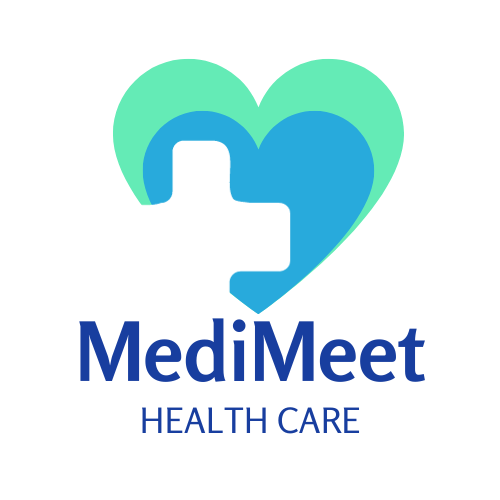
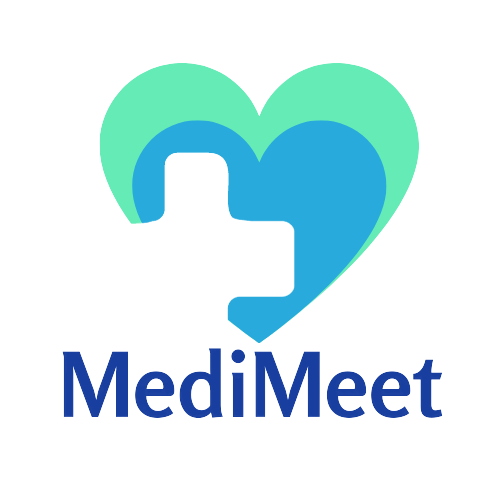
login

Changed region(s): [[0.12, 0.15, 0.9, 0.87], [0.3, 0.12, 0.54, 0.24], [0.54, 0.12, 0.72, 0.18]]

diff --git a/src/app/views/components/login/login.component.html b/src/app/views/components/login/login.component.html
@@ -1,40 +1,28 @@
-<section class="auth-page">
-  <div class="row">
-    <div class="col-md-6">
-      <div class="logo-container">
-        <img src="assets/img/logo.png" alt="Logo" class="logo-img">
-         <h1 class="title">MediMeet</h1>
-    </div>
-    </div>
-  </div>
-  <div class="row m-0 vh-100 justify-content-center align-items-center">
-    <div class="col-md-8 col-lg-6 mx-auto">
-      <div class="text-center">
-        <h1 class="fw-bold">Login</h1>
-        <p>Welcome to our medical appointment app, your trusted companion in managing your health!</p>
-      </div>
-      
-      <div class="card p-3 rounded-0 shadow">
-        <div class="card-body">
-          <form [formGroup]="loginForm" (ngSubmit)="onLogin()">
-            <div class="form-floating mb-3">
-              <input type="email" class="form-control rounded-0" id="username" formControlName="username" placeholder="name@example.com">
-              <label for="floatingInput">Username</label>
-            </div>
-            
-            <div class="form-floating">
-              <input type="password" class="form-control rounded-0" id="password" formControlName="password" placeholder="Password">
-              <label for="floatingPassword">Password</label>
-            </div>
-            
-            <button type="submit" class="btn btn-lg btn-dark w-100 mt-3 rounded-0">Login</button>
-          </form>              
+<section>
+  <div class="wrapper background">
+      <div class="container mb-5 mx-4">
+        <div class="container-img d-flex text-center">
+          <img src="assets/img/1.png">
         </div>
-      </div>        
-    </div>
+        <h1 class="text-center py-5 font-weight-bold">Login</h1>
+        <form [formGroup]="loginForm" (ngSubmit)="onLogin()">
+          <div class="form-group mb-3">
+            <label for="exampleInputEmail1" class="form-label">Username</label>
+            <input type="email" class="form-control" id="username" formControlName="username" placeholder="name@example.com">
+          </div>
+          
+          <div class="form-group mb-3">
+            <label for="exampleInputPassword1" class="form-label" >Password</label>
+            <input type="password" class="form-control text-white" id="exampleInputPassword1" formControlName="password" placeholder="***********" autocomplete="nope" placeholder="Password">
+          </div>
+  
+          <div class="d-grid m-5">
+            <button type="submit" class="btn btn-primary btn-lg fw-normal mb-5 mx-5">Login</button>
+          </div>
+        </form>
+      </div>
   </div>
 </section>
-
 
 
 

diff --git a/src/app/views/components/login/login.component.css b/src/app/views/components/login/login.component.css
@@ -1,11 +1,89 @@
-.logo-container {
-    display: flex;
-    align-items: center;
-    margin-top: 10px;
-    margin-left: 30px;
+
+
+  .background {
+    background-image: url(/../../../assets/img/fondo.png);
+    background-color: rgba(0, 0, 0, 0.5);
+    background-blend-mode: multiply;
+    background-size: cover;
+    background-position: center center;
+    height: 100vh;
   }
-  
-  .logo-img{
-    width: 50px;
-    height: 50px;
-  }
+
+.container{
+    background-color: rgba(0, 0, 0, 0.7);
+    border-radius: 5px;
+    box-shadow: -1px 0px 30px -7px rgba(0,0,0,0.75);
+}
+
+h1{
+  font-size: 35px;
+  font-weight: bold;
+  background: linear-gradient(
+    200deg, #0a66a4, #0c96c0
+  );
+  background-clip: text;
+  -webkit-text-fill-color: transparent;
+}
+
+.container-img  {
+  width: 500px;
+  height: 100px;
+}
+
+.container-img  img {
+  margin: 50px 0px 0px 20px;
+  width: 100%;
+  height: 100%;
+  object-fit: contain;
+  mix-blend-mode: lighten;
+  justify-content: center;
+  align-items: center;
+}
+
+.btn-primary {
+  --bs-btn-color: #f0f1e5;
+  --bs-btn-bg: #0a66a4;
+  --bs-btn-border-color: #3b2c1e;
+  --bs-btn-hover-color: #41464b;
+  font-weight: bold !important;
+}
+
+.link-warning {
+  color: #0a66a4 !important;
+  font-weight: bold !important;
+}
+
+.link-warning:hover {
+  color: #e4e4e5 !important;
+}
+
+.form-group{
+  margin-left: 9%;
+  margin-right: 9%;
+}
+
+.form-group input {
+  color: #e4e4e5;
+  border: none;
+  border-bottom: 3px solid #0a66a4; 
+  background-color: transparent !important;
+  height: 50px;
+}
+
+.form-group input:focus {
+  color:#f0f1e5;
+  background-color: transparent !important;
+  border: none; 
+  border-bottom: 3px solid #ffffff;  
+  box-shadow: none;
+}
+
+.form-group input:-webkit-autofill, input:-ms-input-placeholder {
+  background-color: transparent !important; 
+  color: #333; 
+}
+
+label{
+  color: #e4e4e5;
+}
+
